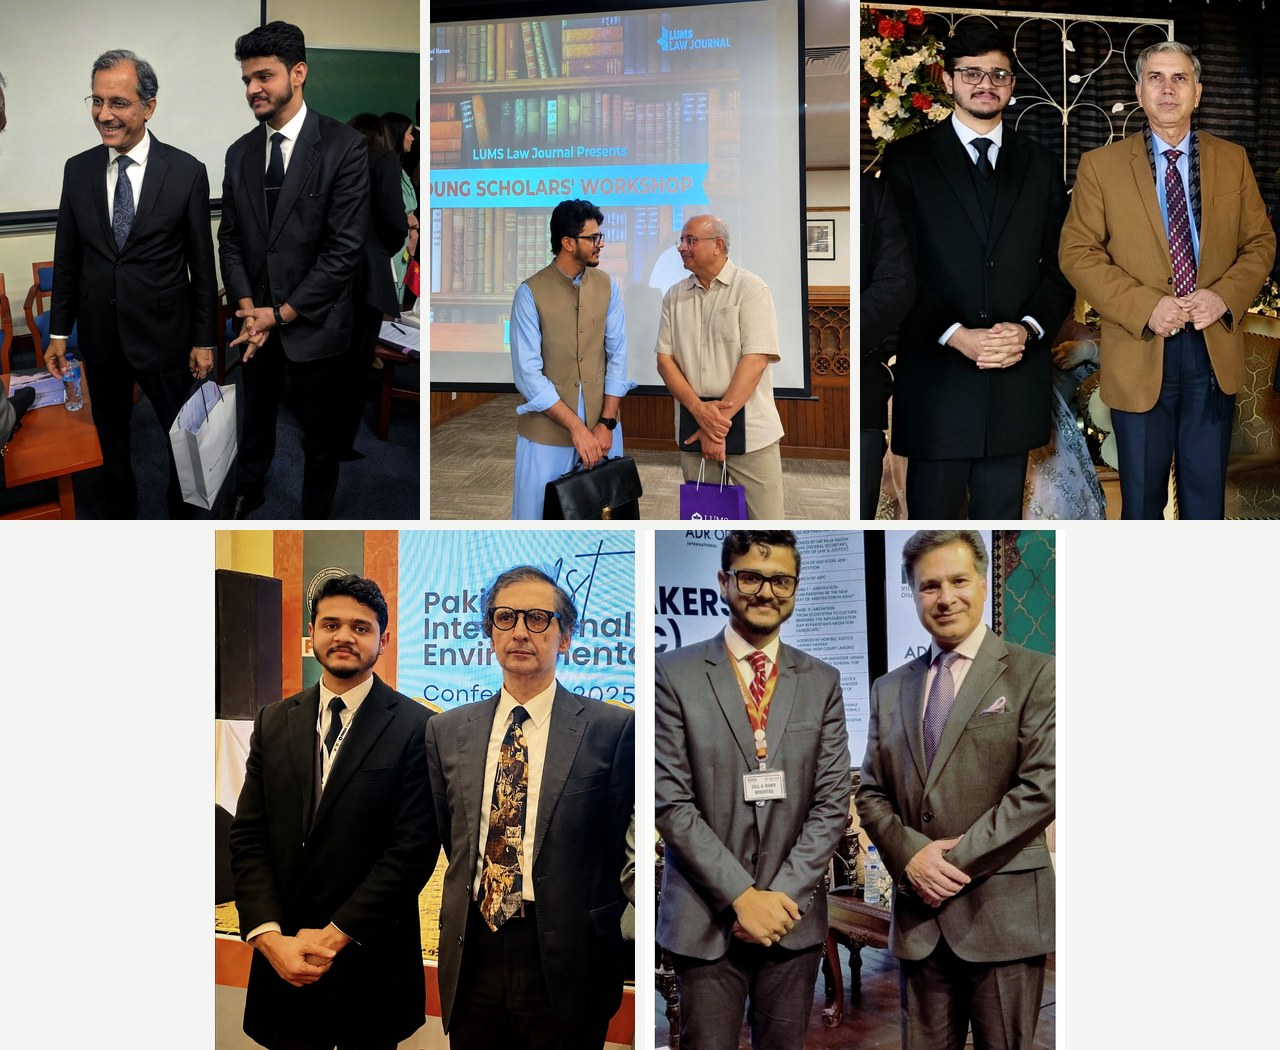
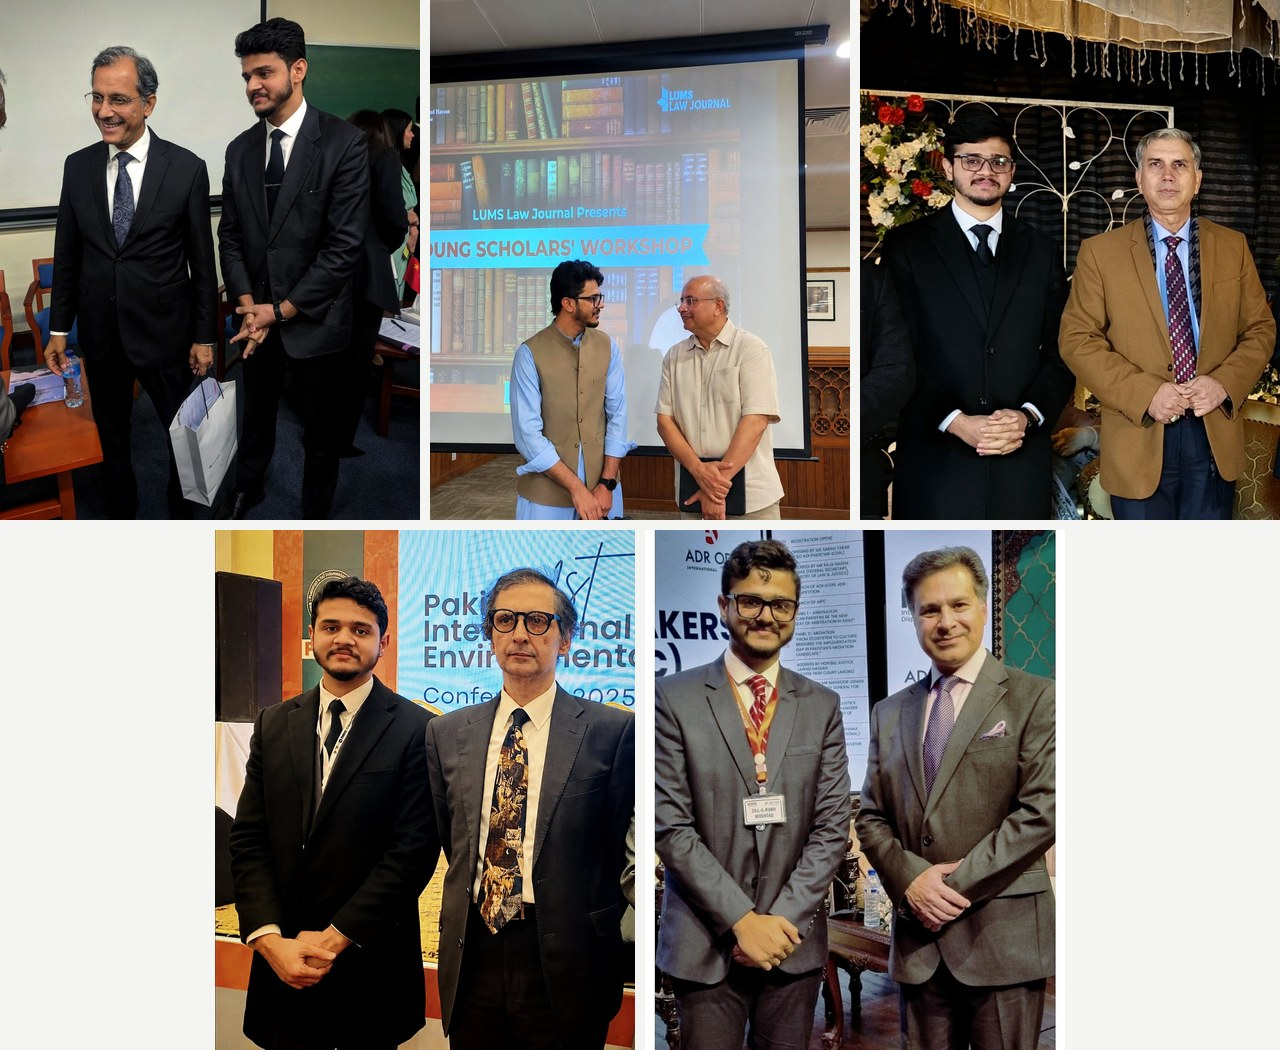
Fix cropped heads in judges collage and add detail to the caption
Regenerate the collage with a crop that anchors near the top of each source photo instead of one-third down, so no one's head gets clipped (most visibly Justice Miangul Hassan Aurangzeb in the bottom-right cell). Also expand the caption to note that Zill gained first-hand insight from each judge's own initiatives: climate justice (Justice Mansoor Ali Shah and Justice Jawad Hassan), animal rights and environmental justice (Justice Jawad Hassan), environmental protection (Justice Shahid Karim), ADR and mediation (Justice Miangul Hassan Aurangzeb), and professional practice (Justice Asad Ali Bajwa).

diff --git a/gallery/index.html b/gallery/index.html
@@ -239,7 +239,7 @@
                     <div class="gallery-caption">
                         <p class="gallery-event">With the Judiciary</p>
                         <span class="gallery-view-hint">Click to view details &rarr;</span>
-                        <p class="gallery-meta">Zill E Rukh Mushtaq with (left to right, top to bottom) Justice Shahid Karim, Justice Syed Mansoor Ali Shah, and Justice Asad Ali Bajwa; Justice Jawad Hassan and Justice Miangul Hassan Aurangzeb.</p>
+                        <p class="gallery-meta">Zill E Rukh Mushtaq with (left to right, top to bottom) Justice Shahid Karim, Justice Syed Mansoor Ali Shah, Justice Asad Ali Bajwa, Justice Jawad Hassan, and Justice Miangul Hassan Aurangzeb &mdash; gaining first-hand insight directly from the authors of some of Pakistan's most significant judgments and initiatives: Justice Mansoor Ali Shah and Justice Jawad Hassan on climate justice, Justice Jawad Hassan on animal rights and environmental justice, Justice Shahid Karim on environmental protection, Justice Miangul Hassan Aurangzeb on ADR and mediation, and Justice Asad Ali Bajwa's guidance on a lifetime lesson in practicing professionally.</p>
                     </div>
                 </div>
 
